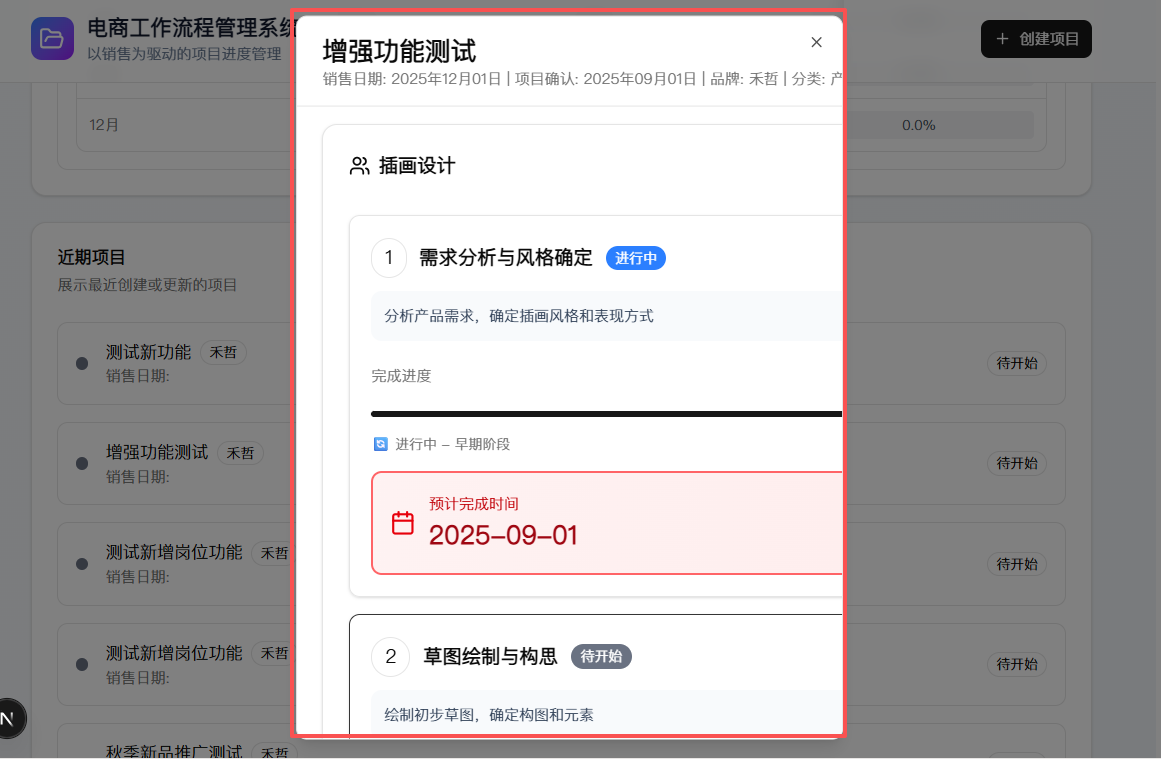
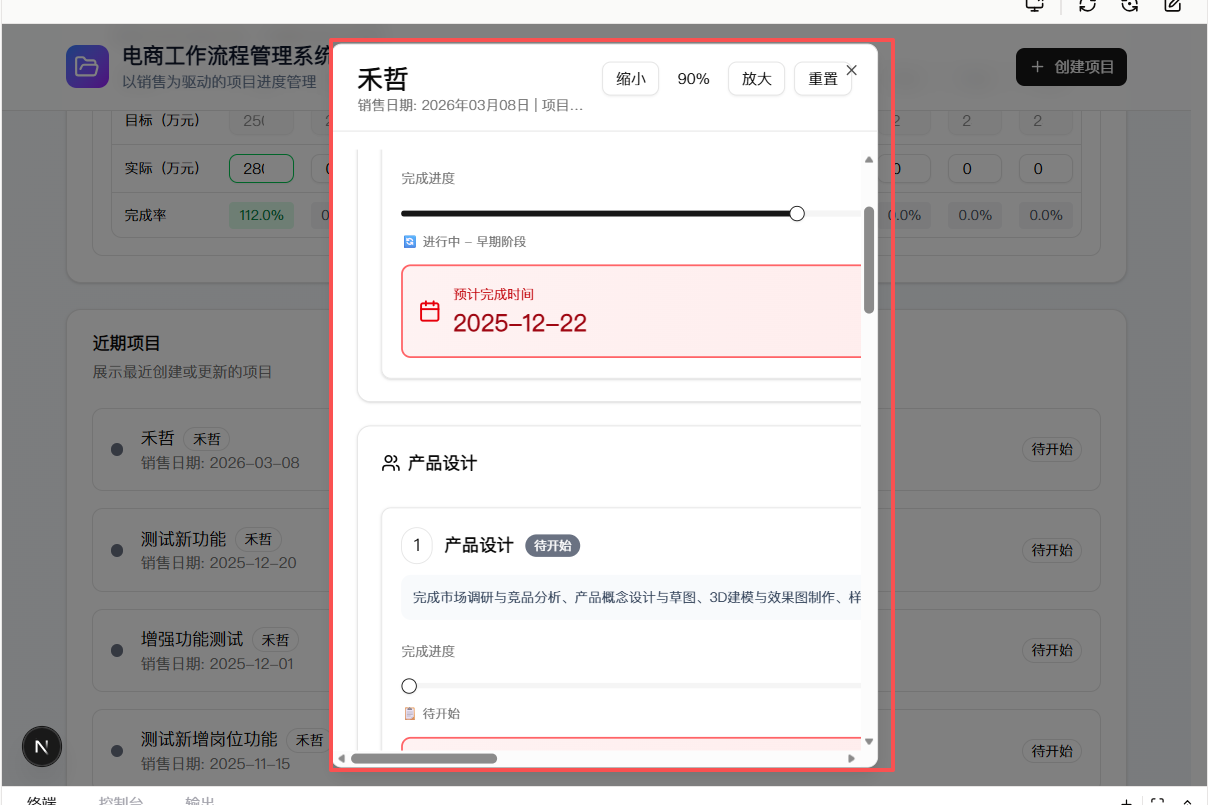
feat: 调整销售目标月度数据横向显示并修复项目详情对话框缩放滚动功能

diff --git a/src/app/page.tsx b/src/app/page.tsx
@@ -902,7 +902,7 @@ export default function HomePage() {
     setEditingSalesTarget(target);
 
     // 按月份去重月度目标
-    const uniqueMonthlyTargets = target.monthlyTargets?.reduce((acc: any[], current: any) => {
+    const uniqueMonthlyTargets = (target.monthlyTargets || []).reduce((acc: any[], current: any) => {
       const existingIndex = acc.findIndex(item => item.month === current.month);
       if (existingIndex === -1) {
         acc.push(current);
@@ -1359,45 +1359,71 @@ export default function HomePage() {
                           {target.monthlyTargets && target.monthlyTargets.length > 0 && (
                             <div className="mt-4 pt-4 border-t">
                               <h4 className="text-sm font-medium mb-3">月度目标和实际完成（可编辑实际完成额）</h4>
-                              <div className="border rounded-lg overflow-hidden">
-                                <div className="grid grid-cols-4 gap-2 bg-muted px-3 py-2 text-sm font-medium">
-                                  <div>月份</div>
-                                  <div>目标销售额（万元）</div>
-                                  <div>实际销售额（万元）</div>
-                                  <div>完成率</div>
-                                </div>
-                                {target.monthlyTargets.map((monthly) => {
-                                  const monthlyRate = monthly.targetAmount > 0
-                                    ? ((monthly.actualAmount / monthly.targetAmount) * 100).toFixed(1)
-                                    : '0.0';
-                                  const isComplete = parseFloat(monthlyRate) >= 100;
-                                  return (
-                                    <div key={monthly.id} className="grid grid-cols-4 gap-2 px-3 py-2 border-b last:border-b-0 items-center">
-                                      <div className="text-sm font-medium text-muted-foreground">
-                                        {monthly.month}月
-                                      </div>
-                                      <Input
-                                        type="number"
-                                        placeholder="目标"
-                                        value={monthly.targetAmount}
-                                        disabled
-                                        className="bg-muted text-xs h-8"
-                                      />
-                                      <Input
-                                        type="number"
-                                        placeholder="实际"
-                                        value={monthly.actualAmount}
-                                        onChange={(e) => handleUpdateMonthlyTarget(monthly.id, parseInt(e.target.value) || 0)}
-                                        className={`text-xs h-8 ${isComplete ? 'border-green-500' : ''}`}
-                                      />
-                                      <div className={`text-xs text-center p-1 rounded font-medium ${
-                                        isComplete ? 'bg-green-100 text-green-700' : 'bg-gray-100 text-gray-600'
-                                      }`}>
-                                        {monthlyRate}%
-                                      </div>
-                                    </div>
-                                  );
-                                })}
+                              <div className="border rounded-lg overflow-x-auto">
+                                <table className="w-full text-xs">
+                                  <thead>
+                                    <tr className="bg-muted">
+                                      <th className="px-3 py-2 text-left font-medium whitespace-nowrap">月份</th>
+                                      {target.monthlyTargets.map((monthly) => (
+                                        <th key={monthly.month} className="px-2 py-2 text-center font-medium whitespace-nowrap min-w-[50px]">
+                                          {monthly.month}月
+                                        </th>
+                                      ))}
+                                    </tr>
+                                  </thead>
+                                  <tbody>
+                                    <tr className="border-b">
+                                      <td className="px-3 py-2 font-medium whitespace-nowrap">目标（万元）</td>
+                                      {target.monthlyTargets.map((monthly) => (
+                                        <td key={`target-${monthly.month}`} className="px-2 py-2 text-center">
+                                          <Input
+                                            type="number"
+                                            value={monthly.targetAmount}
+                                            disabled
+                                            className="bg-muted text-xs h-7 w-full text-center"
+                                          />
+                                        </td>
+                                      ))}
+                                    </tr>
+                                    <tr className="border-b">
+                                      <td className="px-3 py-2 font-medium whitespace-nowrap">实际（万元）</td>
+                                      {target.monthlyTargets.map((monthly) => {
+                                        const monthlyRate = monthly.targetAmount > 0
+                                          ? ((monthly.actualAmount / monthly.targetAmount) * 100).toFixed(1)
+                                          : '0.0';
+                                        const isComplete = parseFloat(monthlyRate) >= 100;
+                                        return (
+                                          <td key={`actual-${monthly.month}`} className="px-2 py-2 text-center">
+                                            <Input
+                                              type="number"
+                                              value={monthly.actualAmount}
+                                              onChange={(e) => handleUpdateMonthlyTarget(monthly.id, parseInt(e.target.value) || 0)}
+                                              className={`text-xs h-7 w-full text-center ${isComplete ? 'border-green-500' : ''}`}
+                                            />
+                                          </td>
+                                        );
+                                      })}
+                                    </tr>
+                                    <tr>
+                                      <td className="px-3 py-2 font-medium whitespace-nowrap">完成率</td>
+                                      {target.monthlyTargets.map((monthly) => {
+                                        const monthlyRate = monthly.targetAmount > 0
+                                          ? ((monthly.actualAmount / monthly.targetAmount) * 100).toFixed(1)
+                                          : '0.0';
+                                        const isComplete = parseFloat(monthlyRate) >= 100;
+                                        return (
+                                          <td key={`rate-${monthly.month}`} className="px-2 py-2 text-center">
+                                            <div className={`text-xs px-2 py-1 rounded font-medium ${
+                                              isComplete ? 'bg-green-100 text-green-700' : 'bg-gray-100 text-gray-600'
+                                            }`}>
+                                              {monthlyRate}%
+                                            </div>
+                                          </td>
+                                        );
+                                      })}
+                                    </tr>
+                                  </tbody>
+                                </table>
                               </div>
                             </div>
                           )}
@@ -1892,7 +1918,7 @@ export default function HomePage() {
                               <div className="text-xs font-medium mb-2">最近任务:</div>
                               <div className="space-y-1">
                                 {roleTasks
-                                  .sort((a, b) => new Date(b.updated_at || b.created_at).getTime() - new Date(a.updated_at || a.created_at).getTime())
+                                  .sort((a, b) => new Date(b.updatedAt || b.createdAt).getTime() - new Date(a.updatedAt || a.createdAt).getTime())
                                   .slice(0, 2)
                                   .map(task => (
                                     <div key={task.id} className="flex items-center justify-between text-xs">
@@ -2120,55 +2146,56 @@ export default function HomePage() {
         {/* 项目详情弹窗 */}
         {selectedProject && (
           <Dialog open={!!selectedProject} onOpenChange={() => setSelectedProject(null)}>
-            <DialogContent className="max-w-[95vw] max-h-[95vh] overflow-hidden p-0">
-              <div className="flex flex-col h-[95vh]">
-                <DialogHeader className="px-6 py-4 border-b shrink-0">
-                  <div className="flex items-start justify-between">
-                    <div className="flex-1">
-                      <DialogTitle className="text-2xl">{selectedProject.name}</DialogTitle>
-                      <DialogDescription>
-                        销售日期: {formatDateSafely(selectedProject.salesDate, 'yyyy年MM月dd日')} |
-                        项目确认: {formatDateSafely(selectedProject.projectConfirmDate, 'yyyy年MM月dd日')} |
-                        品牌: {BRAND_NAMES[selectedProject.brand]} |
-                        分类: {CATEGORY_NAMES[selectedProject.category]}
-                      </DialogDescription>
-                    </div>
-                    <div className="flex items-center gap-2 ml-4 shrink-0">
-                      <Button
-                        variant="outline"
-                        size="sm"
-                        onClick={() => setProjectZoom(Math.max(33, projectZoom - 10))}
-                        disabled={projectZoom <= 33}
-                      >
-                        缩小
-                      </Button>
-                      <span className="text-sm font-medium w-12 text-center">{projectZoom}%</span>
-                      <Button
-                        variant="outline"
-                        size="sm"
-                        onClick={() => setProjectZoom(Math.min(200, projectZoom + 10))}
-                        disabled={projectZoom >= 200}
-                      >
-                        放大
-                      </Button>
-                      <Button
-                        variant="outline"
-                        size="sm"
-                        onClick={() => setProjectZoom(100)}
-                      >
-                        重置
-                      </Button>
-                    </div>
+            <DialogContent className="max-w-[95vw] max-h-[95vh] p-0 overflow-hidden flex flex-col">
+              <DialogHeader className="px-6 py-4 border-b shrink-0">
+                <div className="flex items-start justify-between gap-4">
+                  <div className="flex-1 min-w-0">
+                    <DialogTitle className="text-2xl truncate">{selectedProject.name}</DialogTitle>
+                    <DialogDescription className="text-xs whitespace-nowrap overflow-hidden text-ellipsis">
+                      销售日期: {formatDateSafely(selectedProject.salesDate, 'yyyy年MM月dd日')} |
+                      项目确认: {formatDateSafely(selectedProject.projectConfirmDate, 'yyyy年MM月dd日')} |
+                      品牌: {BRAND_NAMES[selectedProject.brand]} |
+                      分类: {CATEGORY_NAMES[selectedProject.category]}
+                    </DialogDescription>
                   </div>
-                </DialogHeader>
-                <div className="flex-1 overflow-auto px-6 py-4">
-                  <div 
-                    className="transition-transform duration-200 origin-top-left"
-                    style={{ 
-                      transform: `scale(${projectZoom / 100})`
-                    }}
-                  >
-                    <div className="space-y-6" style={{ width: '1800px' }}>
+                  <div className="flex items-center gap-2 shrink-0">
+                    <Button
+                      variant="outline"
+                      size="sm"
+                      onClick={() => setProjectZoom(Math.max(50, projectZoom - 10))}
+                      disabled={projectZoom <= 50}
+                    >
+                      缩小
+                    </Button>
+                    <span className="text-sm font-medium w-12 text-center">{projectZoom}%</span>
+                    <Button
+                      variant="outline"
+                      size="sm"
+                      onClick={() => setProjectZoom(Math.min(200, projectZoom + 10))}
+                      disabled={projectZoom >= 200}
+                    >
+                      放大
+                    </Button>
+                    <Button
+                      variant="outline"
+                      size="sm"
+                      onClick={() => setProjectZoom(100)}
+                    >
+                      重置
+                    </Button>
+                  </div>
+                </div>
+              </DialogHeader>
+              <div className="flex-1 overflow-auto px-6 py-4">
+                <div 
+                  className="transition-transform duration-200 origin-top-left"
+                  style={{ 
+                    transform: `scale(${projectZoom / 100})`,
+                    minWidth: `${1800 * (projectZoom / 100)}px`,
+                    minHeight: `${1000 * (projectZoom / 100)}px`
+                  }}
+                >
+                  <div className="space-y-6" style={{ width: '1800px' }}>
                       {(CATEGORY_ROLES[selectedProject.category] || Object.keys(ROLE_NAMES)).map((role) => {
                         const roleTasks = (selectedProject.tasks || []).filter(t => t.role === role);
                         return (
@@ -2210,7 +2237,6 @@ export default function HomePage() {
                     </div>
                   </div>
                 </div>
-              </div>
             </DialogContent>
           </Dialog>
         )}
